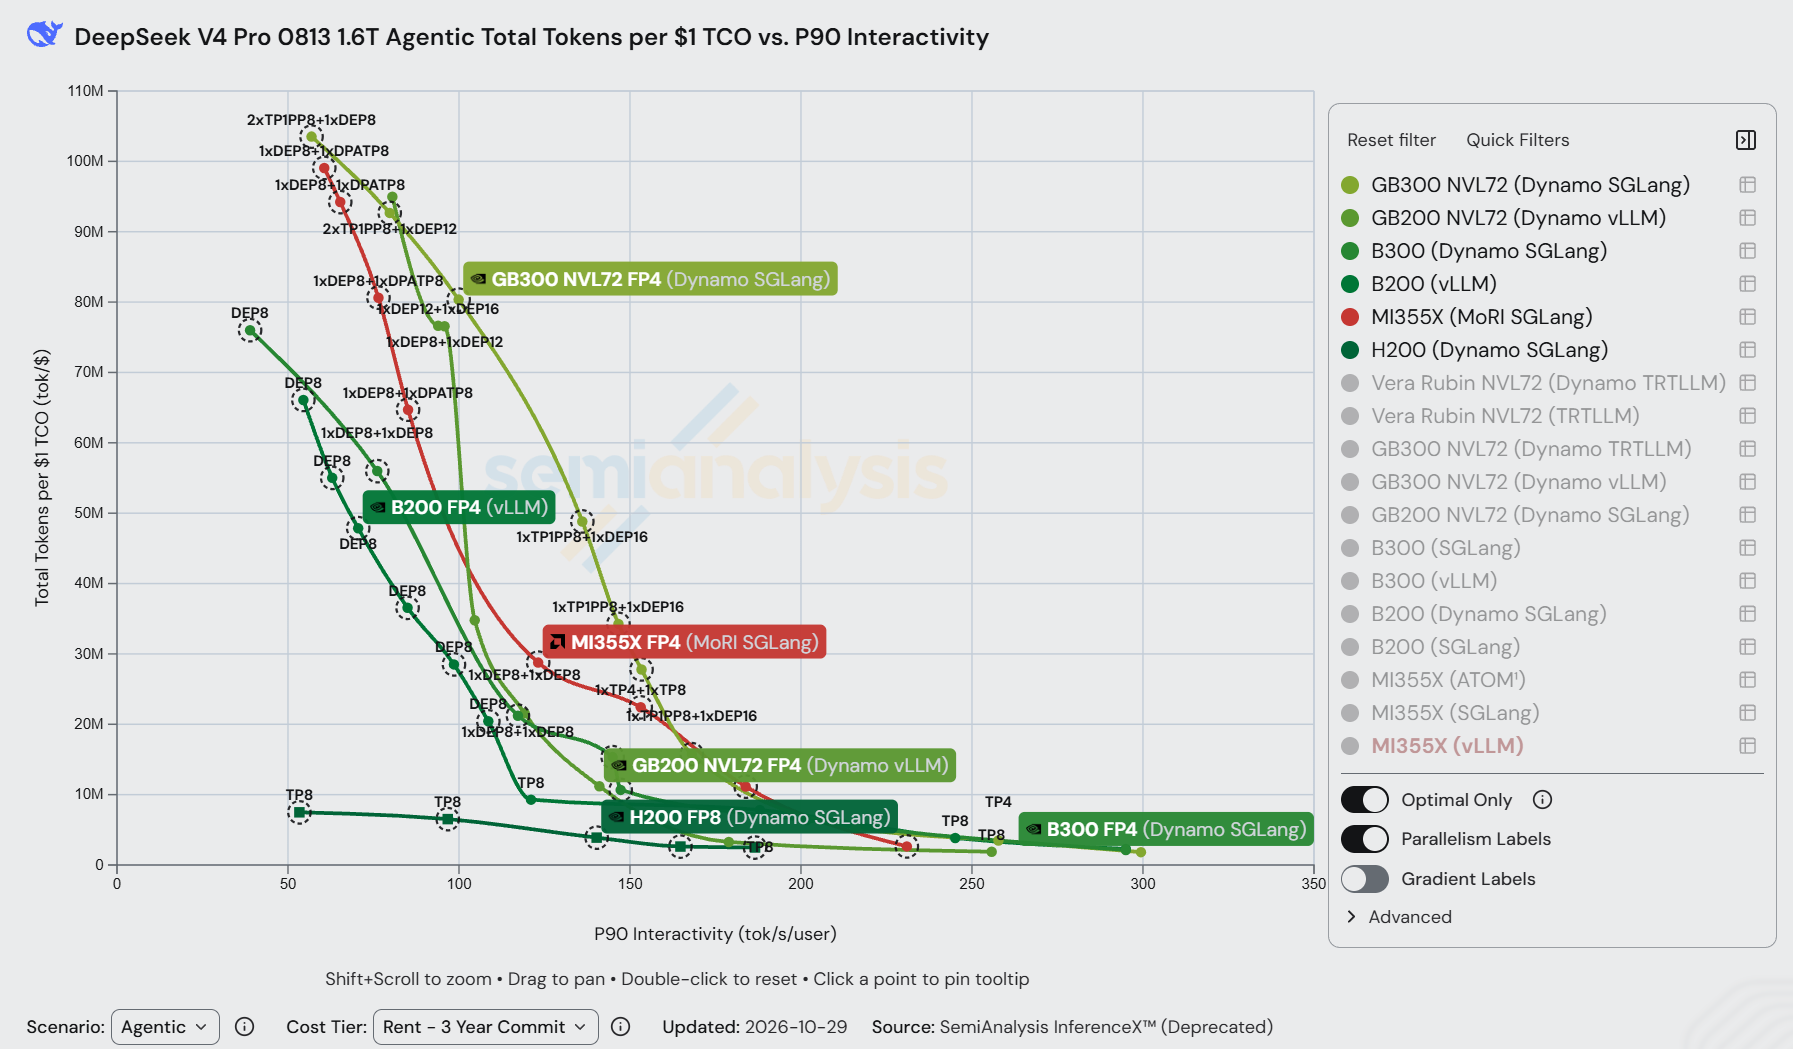
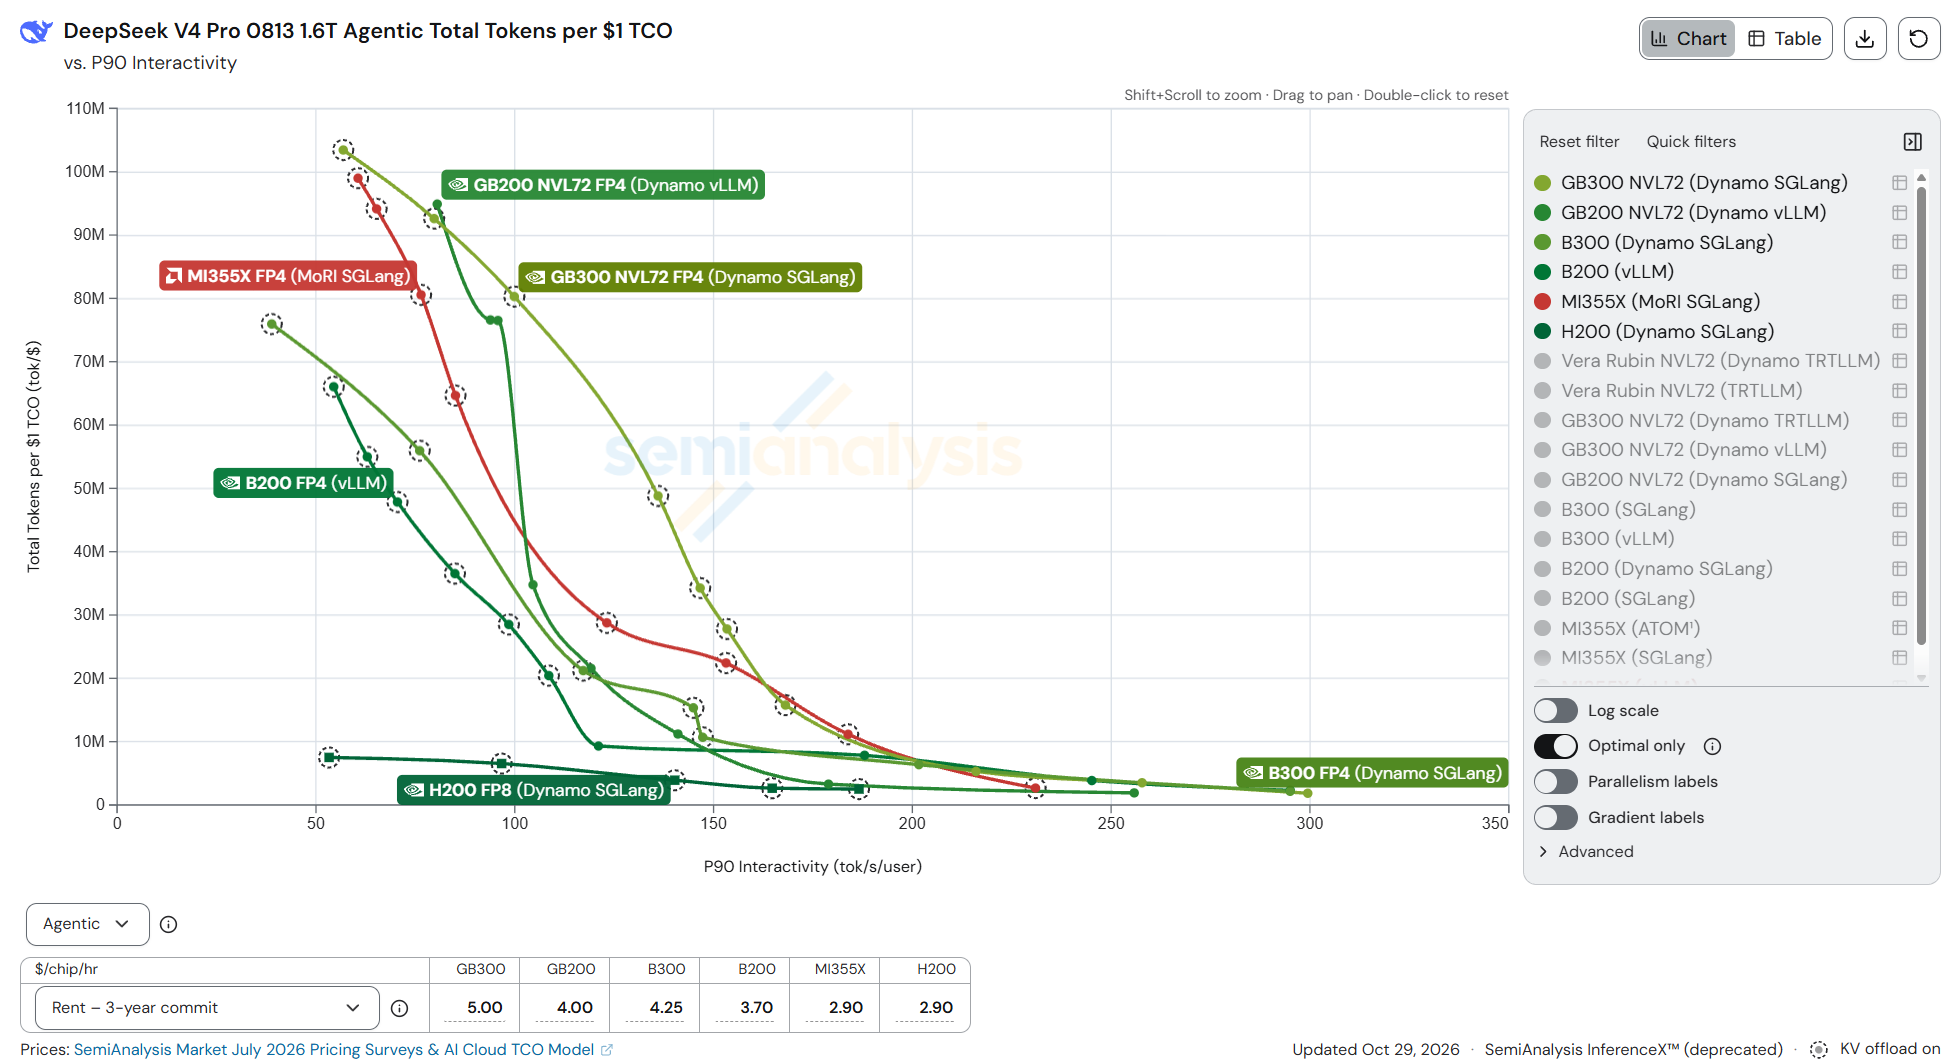
Merged MI355X post: new TCO screenshots and consistency fixes
- Figure 1: new DeepSeek-V4-Pro dashboard screenshot; caption explains
  why its B300/GB300 peaks sit below Table 2 (best framework per system)
- Figure 2: Kimi-K3 dashboard screenshot (Oct 27) in place of K3.1 Pro
- Kimi-K3 comparison uses the dashboard's MI355X (vLLM) line only;
  Table 4, Figure 6 and the text updated (B200 1.9-2.4x, B300 1.8-2.8x,
  GB200 1.2-1.9x), title now "up to 2.4x"
- Opening no longer claims a lead at every interactivity level; notes the
  DeepSeek-V4-Pro exception above ~220 tok/s/user

diff --git a/mi355x-agentx-tco/blog.md b/mi355x-agentx-tco/blog.md
@@ -1,20 +1,20 @@
-# AMD Instinct™ MI355X on Agentic Inference: DeepSeek-V4-Pro and Kimi-K3 at Up to 2.6× the Tokens per Dollar of B200
+# AMD Instinct™ MI355X on Agentic Inference: DeepSeek-V4-Pro and Kimi-K3 at Up to 2.4× the Tokens per Dollar of B200
 
 *November 2026*
 
-Since August we have been running two large MoE models on AMD Instinct MI355X in SemiAnalysis's public AgentX benchmark: DeepSeek-V4-Pro (1.6T) on SGLang with MoRI, and Kimi-K3 (2.8T) on vLLM. On both, MI355X now gets more tokens per dollar than B200 and B300 at every interactivity level where they have published results. On DeepSeek-V4-Pro the lead goes up to 1.85× over B200 and 2.26× over B300. On Kimi-K3 it is 1.9–2.6× over B200 and 2.0–2.8× over B300, MI355X also leads GB200 NVL72 by 1.3–2.0×, and its peak tokens per dollar is the highest on the dashboard.
+Since August we have been running two large MoE models on AMD Instinct MI355X in SemiAnalysis's public AgentX benchmark: DeepSeek-V4-Pro (1.6T) on SGLang with MoRI, and Kimi-K3 (2.8T) on vLLM. On both, MI355X now gets more tokens per dollar than B200 and B300 across nearly all of the interactivity range where they overlap; the one exception is DeepSeek-V4-Pro at the single-user end, above about 220 tok/s/user. In the comparisons below, the lead on DeepSeek-V4-Pro goes up to 1.85× over B200 and 2.26× over B300. On Kimi-K3 it is 1.9–2.4× over B200 and 1.8–2.8× over B300, MI355X also leads GB200 NVL72 by 1.2–1.9×, and its peak tokens per dollar is the highest on the dashboard.
 
 ![Figure 1](figures/dsv4-tco-frontier.png)
 
-*Figure 1: DeepSeek-V4-Pro FP4 AgentX, total tokens per $1 TCO vs. P90 interactivity, Rent – 3-year commit tier, screenshot of the [InferenceX dashboard](https://inferencex.semianalysis.com/inference/deepseek-v4) (data updated 2026-10-29). One framework is shown per system: GB300 NVL72 and B300 on Dynamo SGLang, GB200 NVL72 on Dynamo vLLM, B200 on vLLM, H200 on Dynamo SGLang, and MI355X on MoRI SGLang (red). For MI355X, KV offload is MoRI UMBP.*
+*Figure 1: DeepSeek-V4-Pro FP4 AgentX, total tokens per $1 TCO vs. P90 interactivity, Rent – 3-year commit tier, screenshot of the [InferenceX dashboard](https://inferencex.semianalysis.com/inference/deepseek-v4) (data updated 2026-10-29). One framework is shown per system: GB300 NVL72 and B300 on Dynamo SGLang, GB200 NVL72 on Dynamo vLLM, B200 on vLLM, H200 on Dynamo SGLang, and MI355X on MoRI SGLang (red). For MI355X, KV offload is MoRI UMBP. Table 2 uses each NVIDIA system's best framework, so its B300 and GB300 peaks (82.7M on SGLang, 112.8M on Dynamo vLLM) are higher than the curves shown here.*
 
 ![Figure 2](figures/k3-tco-frontier.png)
 
-*Figure 2: Kimi K3.1 Pro FP4 AgentX, total tokens per $1 TCO vs. P90 interactivity, Rent – 3-year commit tier, screenshot of the [InferenceX dashboard](https://inferencex.semianalysis.com/inference/kimi-k3) (updated 2026-11-09). One framework is shown per system: GB300 NVL72 on Dynamo vLLM, GB200 NVL72 on Dynamo SGLang, and B300, B200 and MI355X on vLLM. Dashed circles mark points with KV offload on.*
+*Figure 2: Kimi-K3 FP4 AgentX, total tokens per $1 TCO vs. P90 interactivity, Rent – 3-year commit tier, screenshot of the [InferenceX dashboard](https://inferencex.semianalysis.com/inference/kimi-k3) (updated 2026-10-27). One framework is shown per system: GB300 NVL72, GB200 NVL72 and B200 on Dynamo vLLM, and B300 and MI355X on vLLM. Dashed circles mark points with KV offload on.*
 
 Most of that lead came from software: on the same hardware, peak throughput per GPU rose 3.5× on DeepSeek-V4-Pro and 4.2× on Kimi-K3 between August and October.
 
-First we look at the benchmark and the MI355X hardware. Then, for each model, we compare MI355X with NVIDIA's GPUs, show how the results improved over ten weeks, and explain which changes made the difference.
+First we look at the benchmark and the MI355X hardware. Then, for each model, we compare MI355X with NVIDIA's GPUs, show how the results improved since August, and explain which changes made the difference.
 
 ## The workload and the hardware
 
@@ -33,7 +33,7 @@ For the hardware, what matters most is that these long contexts come back turn a
 
 That capacity drove most of our deployment choices for both models. DeepSeek-V4-Pro in FP4 fits on four MI355X GPUs with space left for KV cache, so its recipe uses TP4 prefill at concurrency 16–48 and TP4 + TP4 at concurrency 1, where every published B200 AgentX recipe uses eight GPUs per role. Kimi-K3's MXFP4 weights are about 1.56 TB. At TP8 that is about 195 GB per MI355X, so the whole model runs on one 8-GPU node. Eight B200s (1.44 TB) or eight GB200s (1.49 TB) cannot hold the weights, and the published configurations for both spread the model over two nodes with pipeline parallelism.
 
-Compute is a different story. B300 has about a third more dense FP4 than MI355X, yet on DeepSeek-V4-Pro at 70 tok/s/user MI355X runs at 71.8k tok/s per GPU against B300's 68.8k. On Kimi-K3 at 40 tok/s/user it delivers 1.69× B200's throughput per GPU with only 12% more FP4. Closing the distance between what the hardware can do and what each model was getting from it is what most of the work below was about.
+Compute is a different story. B300 has about a third more dense FP4 than MI355X, yet on DeepSeek-V4-Pro at 70 tok/s/user MI355X runs at 71.8k tok/s per GPU against B300's 68.8k. On Kimi-K3 at 40 tok/s/user it delivers 1.66× B200's throughput per GPU with only 12% more FP4. Closing the distance between what the hardware can do and what each model was getting from it is what most of the work below was about.
 
 ## DeepSeek-V4-Pro on SGLang with MoRI UMBP
 
@@ -104,10 +104,10 @@ Table 4 and Figure 6, along with Figure 2 at the top of this post, put that sing
 | P90 interactivity | MI355X | B200 | B300¹ | GB200 NVL72 | GB300 NVL72 |
 |---|---|---|---|---|---|
 | 25 tok/s/user | 19.1 | 9.9 (1.92×) | 7.1 (2.71×) | 9.8 (1.94×) | — |
-| 40 tok/s/user | 16.5 | 7.7 (2.16×) | 5.8 (2.84×) | 8.4 (1.97×) | 18.9 (0.87×) |
-| 60 tok/s/user | 10.9 | 4.9 (2.22×) | 4.6 (2.38×) | 7.1 (1.54×) | 17.2 (0.63×) |
-| 80 tok/s/user | 8.4 | 3.4 (2.46×) | 3.8 (2.22×) | 6.6 (1.28×) | 12.1 (0.70×) |
-| 100 tok/s/user | 6.7 | 2.6 (2.59×) | 3.4 (1.96×) | 5.2 (1.30×) | 9.1 (0.74×) |
+| 40 tok/s/user | 16.2 | 7.7 (2.12×) | 5.8 (2.79×) | 8.4 (1.93×) | 18.9 (0.86×) |
+| 60 tok/s/user | 10.9 | 4.9 (2.22×) | 4.6 (2.38×) | 7.1 (1.53×) | 17.2 (0.63×) |
+| 80 tok/s/user | 8.3 | 3.4 (2.41×) | 3.8 (2.17×) | 6.6 (1.26×) | 12.1 (0.68×) |
+| 100 tok/s/user | 6.2 | 2.6 (2.37×) | 3.4 (1.80×) | 5.2 (1.19×) | 9.1 (0.68×) |
 | Peak | 19.7 | 10.4 (1.89×) | 10.6 (1.86×) | 9.9 (1.99×) | 19.1 (1.03×) |
 
 ¹ B300's latest published Kimi-K3 results are from 2026-08-16; everything else was measured in October.
@@ -116,9 +116,9 @@ Table 4 and Figure 6, along with Figure 2 at the top of this post, put that sing
 
 *Figure 6: Kimi-K3, MI355X tokens per dollar over each NVIDIA system's at the same P90 interactivity (Rent tier). Bars above 1.0 mean a lower cost per token on MI355X.*
 
-B200, B300 and GB200 NVL72 trail MI355X at every level in Table 4, by 1.9–2.6×, 2.0–2.8× and 1.3–2.0×. Against B200 the gap here is mainly throughput, not price: one MI355X GPU does 1.5–2.0× the work of one B200 over this range, 13.3k against 7.9k tokens/s at 40 tok/s/user. Against GB200 it does about 1.4× the work at 25–40 tok/s/user. Owning-tier prices narrow the lead a little, to 1.7–2.3× over B200 and 1.2–1.8× over GB200.
+B200, B300 and GB200 NVL72 trail MI355X at every level in Table 4, by 1.9–2.4×, 1.8–2.8× and 1.2–1.9×. Against B200 the gap here is mainly throughput, not price: one MI355X GPU does 1.5–1.9× the work of one B200 over this range, 13.1k against 7.9k tokens/s at 40 tok/s/user. Against GB200 it does about 1.4× the work at 25–40 tok/s/user. Owning-tier prices narrow the lead a little, to 1.7–2.2× over B200 and 1.1–1.7× over GB200.
 
-GB300 NVL72 is the exception again. From 40 tok/s/user up it gets more tokens per dollar, with MI355X at 0.63–0.87× of it, using disaggregated wide-EP setups of 24 to 40 GPUs within the NVLink rack. At the low-interactivity end the MI355X peak, 19.7M at 20.5 tok/s/user, edges past GB300's 19.1M.
+GB300 NVL72 is the exception again. From 40 tok/s/user up it gets more tokens per dollar, with MI355X at 0.63–0.86× of it, using disaggregated wide-EP setups of 24 to 40 GPUs within the NVLink rack. At the low-interactivity end the MI355X peak, 19.7M at 20.5 tok/s/user, edges past GB300's 19.1M.
 
 ### Same eight GPUs, 4.2× the throughput
 
